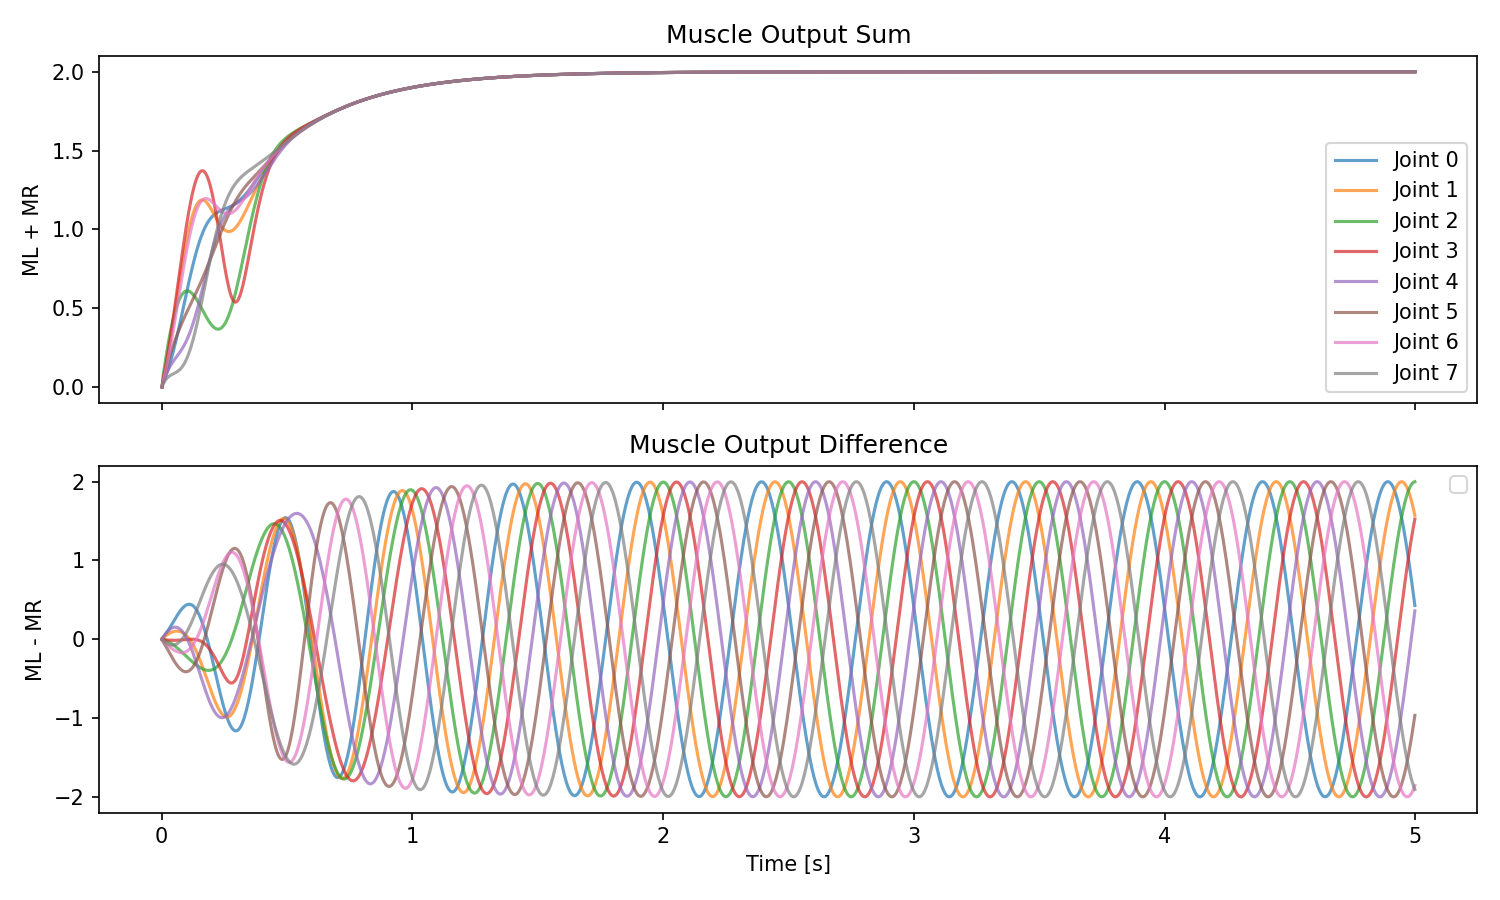
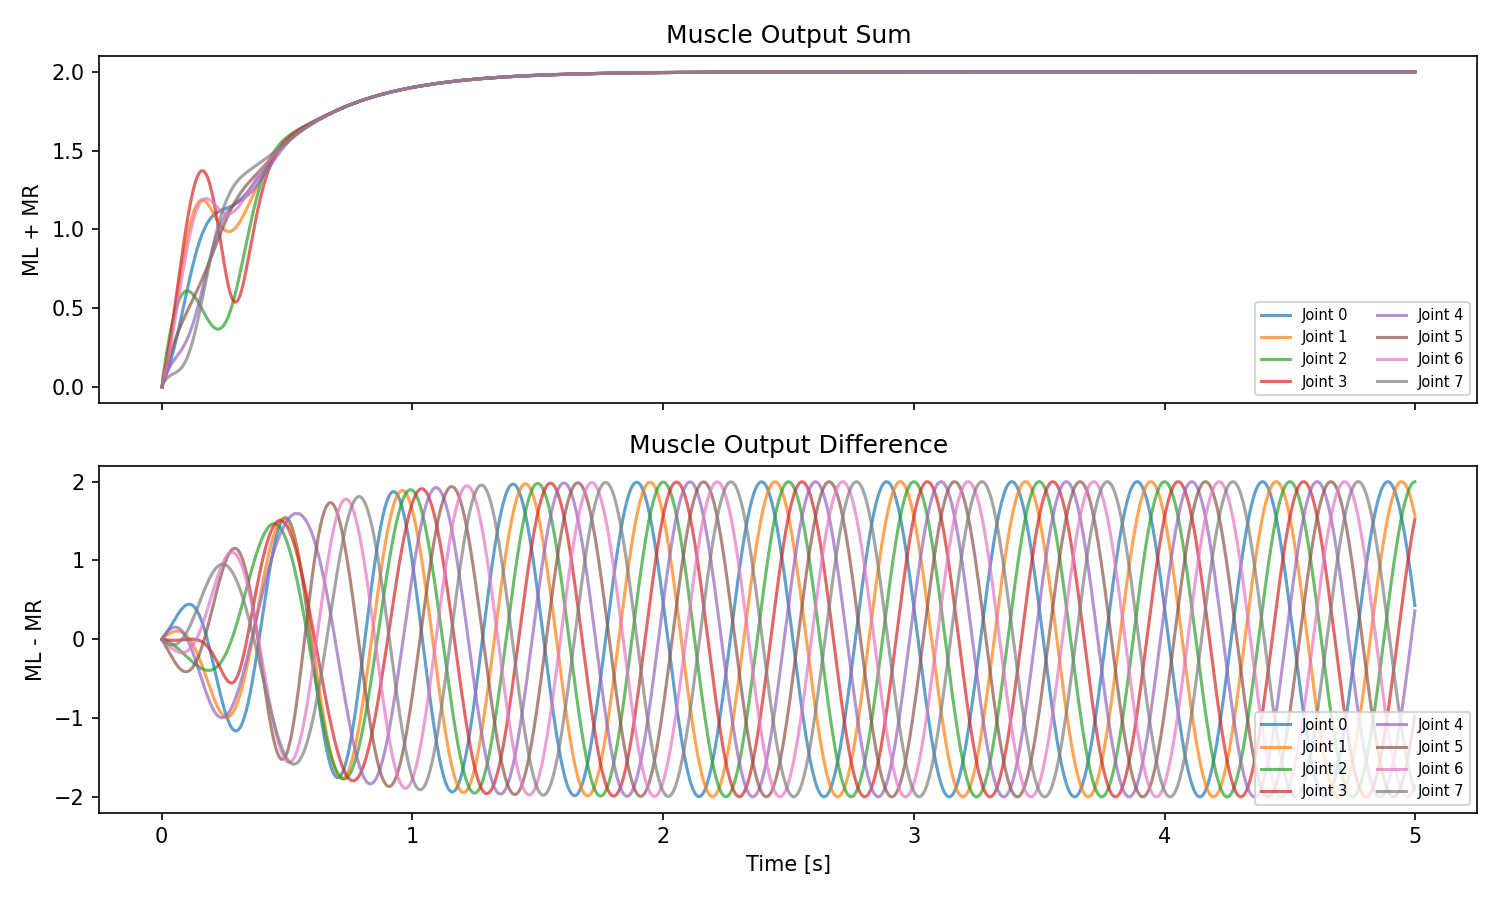
heatmaps

Changed region(s): [[0.828, 0.1556, 0.9813, 0.4667], [0.828, 0.7778, 0.9813, 0.9022]]

diff --git a/Project1/Python/cmc_controllers/plot_utils.py b/Project1/Python/cmc_controllers/plot_utils.py
@@ -1,7 +1,8 @@
+from matplotlib.pylab import norm
 import matplotlib.pyplot as plt
 import numpy as np
 from cmc_controllers.metrics import LINKS_MASSES
-
+from matplotlib.colors import SymLogNorm
 def plot_results_EXO1_1(sim_times, freq, sensor_data_joints_positions, sensor_data_links_positions, base_path):
 
     """
@@ -59,19 +60,34 @@ def plot_gridsearch_heatmaps(twl_range, amp_range, get_metrics, base_path):
     titles = ['Forward speed (m/s)', 'IPL (rad)', 'CoT (J/m)']
 
     for ax, grid, title in zip(axes, grids, titles):
-        # origin='lower' ensures the lowest amplitude value is at the bottom
-        im = ax.imshow(grid, aspect='auto', origin='lower', cmap='viridis')
+        # 1. Normalisation et affichage de la Heatmap
+        norm = SymLogNorm(linthresh=0.01, vmin=grid.min(), vmax=grid.max())
+        im = ax.imshow(grid, norm=norm, aspect='auto', origin='lower', cmap='viridis')
         plt.colorbar(im, ax=ax)
         
-        # 3. Correct the Ticks and Labels
+        # --- 2. BOUCLE POUR AFFICHER LES VALEURS ---
+        for i in range(n_amp):    # Axe Y
+            for j in range(n_twl): # Axe X
+                val = grid[i, j]
+                
+                # Choix de la couleur du texte pour la lisibilité
+                # Si la valeur est élevée (couleur claire dans viridis), on écrit en noir
+                # Si elle est basse (couleur sombre), on écrit en blanc
+                color_text = "white" if val < (grid.max() * 0.5) else "black"
+                
+                ax.text(j, i, f'{val:.2f}', 
+                        ha="center", va="center", 
+                        color=color_text, fontsize=8)
+        
+        # 3. Configuration des Ticks et Labels
         ax.set_yticks(range(n_amp))
         ax.set_yticklabels([f'{a:.2f}' for a in amp_range])
         
         ax.set_xticks(range(n_twl))
         ax.set_xticklabels([f'{t:.2f}' for t in twl_range], rotation=45)
         
-        ax.set_ylabel('Amplitude') # Y is now Amplitude
-        ax.set_xlabel('TWL')       # X is now TWL
+        ax.set_ylabel('Amplitude')
+        ax.set_xlabel('TWL')
         ax.set_title(title)
     
     plt.tight_layout()
@@ -215,6 +231,12 @@ def plot_results_EXO2_3(f_animal, a_animal, ipl_animal, ipl_animal_mean, f_robot
                     linewidth=1.5, alpha=0.8, label='Mean Animal')
     axes[2].axhline(y=ipl_robot_mean, color=color_robot, linestyle='--', 
                     linewidth=1.5, alpha=0.8, label='Mean Controller')
+    axes[2].text(1.01, ipl_animal_mean, f'{ipl_animal_mean:.3f}', 
+                    color=color_animal, va='center', fontweight='bold',
+                    transform=axes[2].get_yaxis_transform())
+    axes[2].text(1.01, ipl_robot_mean, f'{ipl_robot_mean:.3f}', 
+                 color=color_robot, va='center', fontweight='bold',
+                 transform=axes[2].get_yaxis_transform())
     axes[2].set_ylabel('Phase Lag (rad)')
     axes[2].set_title('Inter-joint Phase Lags')
     axes[2].set_xticks(x_couples)
@@ -357,17 +379,17 @@ def plot_results_EXO2_1(
     # ─────────────────────────────────────────────
     fig, axes = plt.subplots(2, 1, figsize=(10, 6), sharex=True)
 
-    for i in range(n_osc):
+    for i in range(n_joints):
         axes[0].plot(t_ctrl, phases[:, i], alpha=0.7, label=f'Joint {i}')
-    axes[0].legend()
+    axes[0].legend(loc='lower right', fontsize=7, ncol=2)
     axes[0].set_ylabel('Phase θ [rad]')
     axes[0].set_title('Oscillator Phases')
 
-    for i in range(n_osc):
+    for i in range(n_joints):
         axes[1].plot(t_ctrl, amplitudes[:, i], alpha=0.7, label=f'Joint {i}')
     axes[1].set_ylabel('Amplitude r')
     axes[1].set_xlabel('Time [s]')
-    axes[1].legend()
+    axes[1].legend(loc='lower right', fontsize=7, ncol=2)
     axes[1].set_title('Oscillator Amplitudes')
 
     plt.tight_layout()
@@ -381,14 +403,14 @@ def plot_results_EXO2_1(
     for i in range(n_joints):
         axes[0].plot(t_ctrl, M_sum[:, i], alpha=0.7, label=f'Joint {i}')
     axes[0].set_ylabel('ML + MR')
-    axes[0].legend()
+    axes[0].legend(loc='lower right', fontsize=7, ncol=2)
     axes[0].set_title('Muscle Output Sum')
 
     for i in range(n_joints):
-        axes[1].plot(t_ctrl, M_diff[:, i], alpha=0.7)
+        axes[1].plot(t_ctrl, M_diff[:, i], alpha=0.7, label=f'Joint {i}')
     axes[1].set_ylabel('ML - MR')
     axes[1].set_xlabel('Time [s]')
-    axes[1].legend()
+    axes[1].legend(loc='lower right', fontsize=7, ncol=2)
     axes[1].set_title('Muscle Output Difference')
 
     plt.tight_layout()
@@ -397,19 +419,6 @@ def plot_results_EXO2_1(
     # ─────────────────────────────────────────────
     # FIG 3: Joint angles (simulation)
     # ─────────────────────────────────────────────
-    # fig, ax = plt.subplots(figsize=(10, 4))
-
-    # for j in range(8):
-    #     ax.plot(t_sim, sensor_data_joints_positions[sim_mask, j], label=f'joint {j}', alpha=0.7)
-
-    # ax.set_ylabel('Joint angle [rad]')
-    # ax.set_xlabel('Time [s]')
-    # ax.set_title('Joint Angles (Simulation)')
-    # ax.legend(loc='upper right', fontsize=7, ncol=2)
-
-    # plt.tight_layout()
-    # plt.savefig(base_path + 'joint_angles.png', dpi=150)
-
     fig, ax = plt.subplots(figsize=(10, 4))
 
     for j in range(8):
@@ -423,7 +432,7 @@ def plot_results_EXO2_1(
     ax.set_ylabel('Joint angle [rad]')
     ax.set_xlabel('Time [s]')
     ax.set_title('Joint Angles (Simulation)')
-    ax.legend(loc='upper right', fontsize=7, ncol=2)
+    ax.legend(loc='upper left', fontsize=7, ncol=2)
 
     plt.tight_layout()
     plt.savefig(base_path + 'joint_angles.png', dpi=150)
